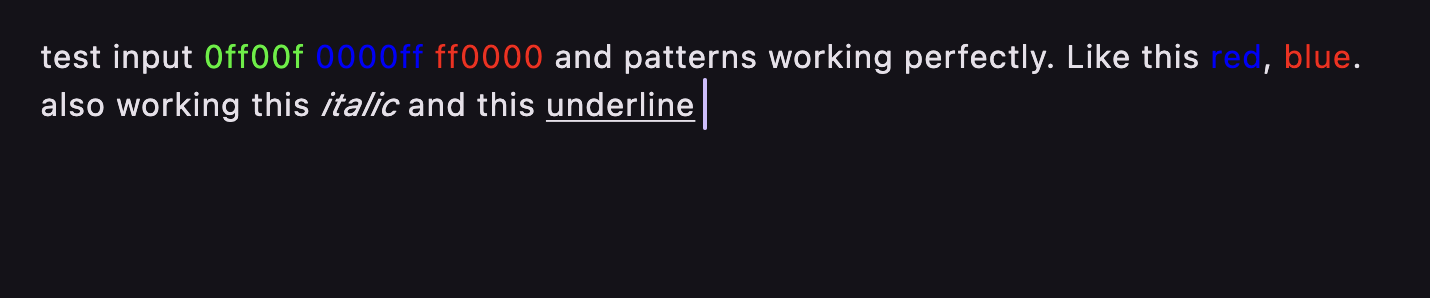
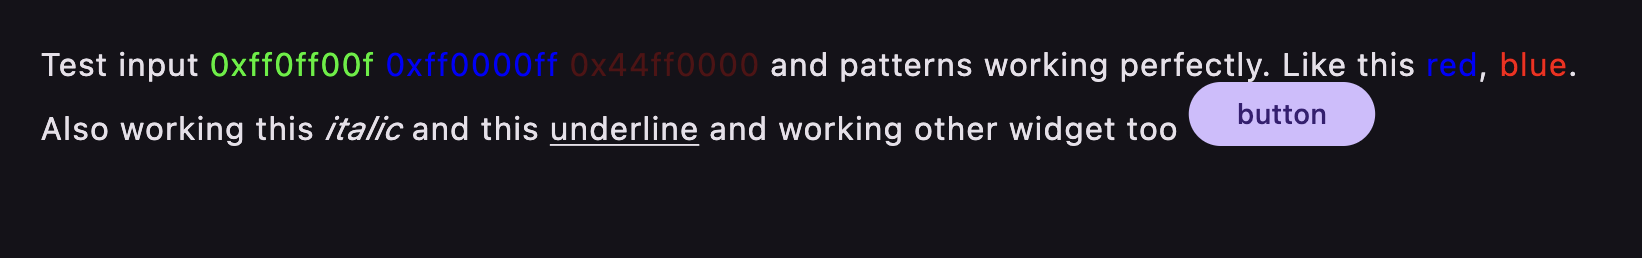
update

Changed region(s): [[0.0, 0.124, 0.9538, 0.5891]]

diff --git a/README.md b/README.md
@@ -5,7 +5,7 @@ Basically this package working for stylize to input text.
   final controller = PatternTextEditingController(
     patterns: [
       TextPattern(
-        pattern: RegExp('(?:[0-9a-fA-F]{6})', multiLine: true),
+        pattern: RegExp('0x(?:[0-9a-fA-F]{8})'),
         style: const TextStyle(
           color: Color(0xff0000ff),
         ),
@@ -14,44 +14,57 @@ Basically this package working for stylize to input text.
             text: match.group(0),
             style: style.merge(
               TextStyle(
-                color: Color(
-                  int.parse('0xff${match.group(0)}'),
-                ),
+                color: Color(int.parse(match.group(0)!)),
               ),
             ),
           );
         },
       ),
       TextPattern(
-        pattern: RegExp('red', multiLine: true),
+        pattern: RegExp('red'),
         style: const TextStyle(
           color: Color(0xff0000ff),
         ),
       ),
       TextPattern(
-        pattern: RegExp('blue', multiLine: true),
+        pattern: RegExp('blue'),
         style: const TextStyle(
           color: Color(0xffff0000),
         ),
       ),
       TextPattern(
-        pattern: RegExp('italic', multiLine: true),
+        pattern: RegExp('italic'),
         style: const TextStyle(
           fontStyle: FontStyle.italic,
         ),
       ),
       TextPattern(
-        pattern: RegExp('underline', multiLine: true),
+        pattern: RegExp('underline'),
         style: const TextStyle(
           decoration: TextDecoration.underline,
         ),
+      ),
+      TextPattern(
+        pattern: RegExp('button'),
+        style: const TextStyle(
+          decoration: TextDecoration.underline,
+        ),
+        builder: (match, style) {
+          return WidgetSpan(
+            child: FilledButton(
+              onPressed: () {},
+              child: Text(match.group(0)!),
+            ),
+          );
+        },
       ),
     ],
   );
 
 TextField(
-  maxLines: 12,
+  maxLines: 20,
   controller: controller,
+  style: const TextStyle(height: 2),
   decoration: const InputDecoration(
     contentPadding: EdgeInsets.all(20),
   ),
